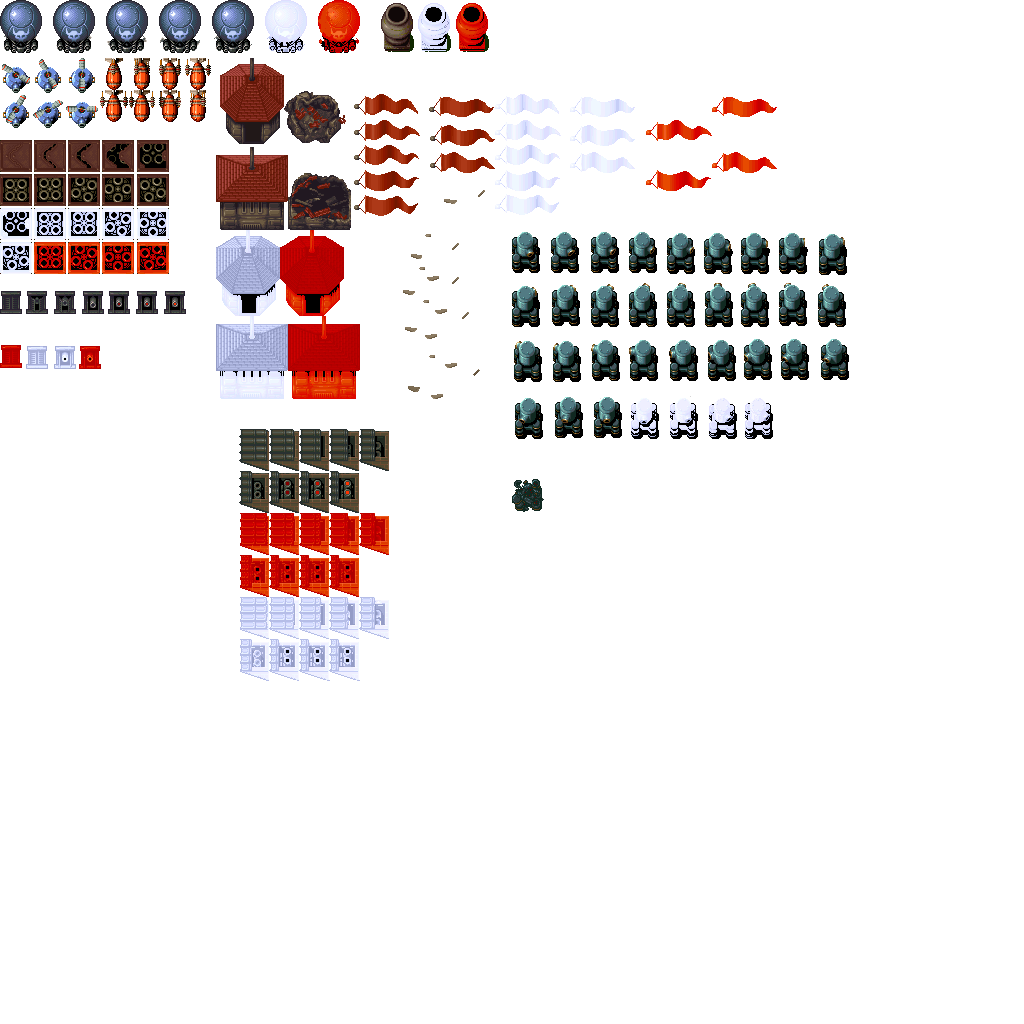
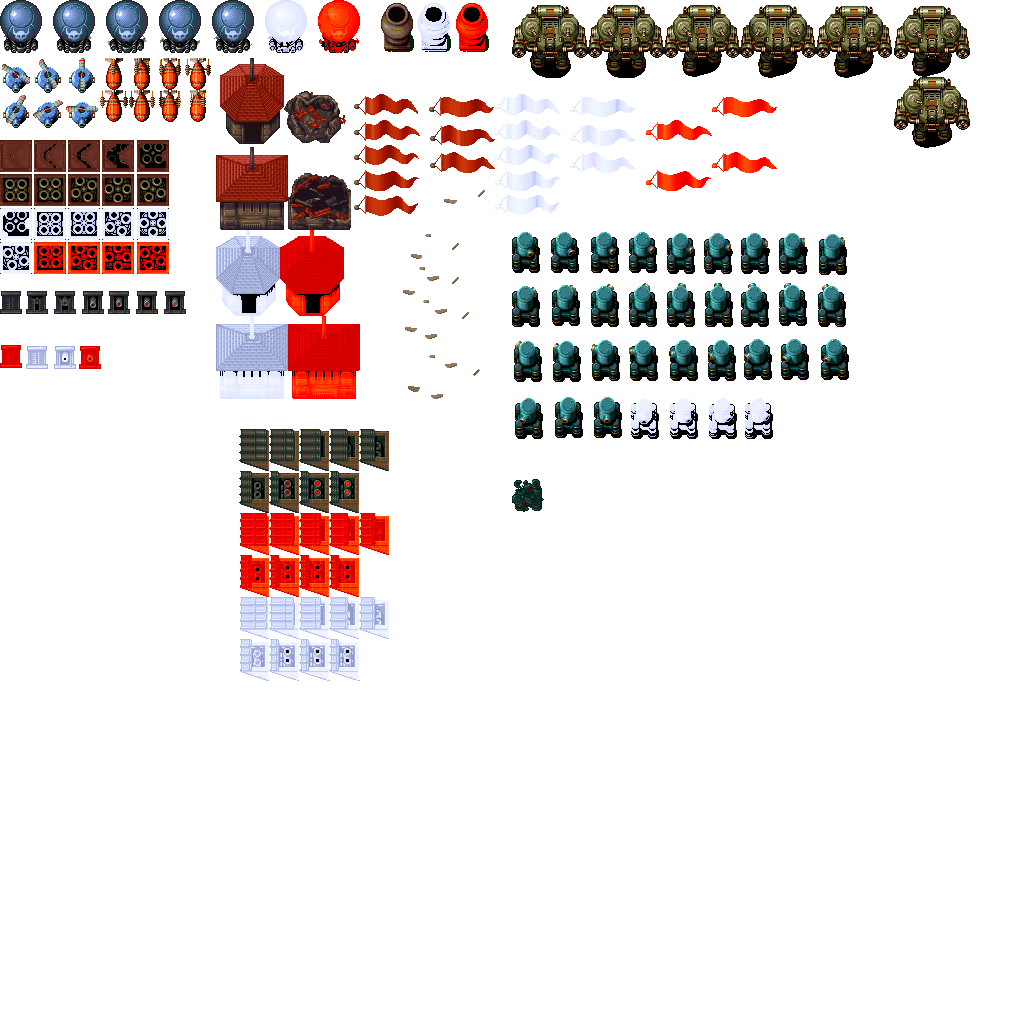
Green robot and bomb in progress

diff --git a/gunbird/ModuleCollision.cpp b/gunbird/ModuleCollision.cpp
@@ -20,6 +20,8 @@ ModuleCollision::ModuleCollision()
 	matrix[COLLIDER_WALL][COLLIDER_ENEMY_SHOT] = true;
 	matrix[COLLIDER_WALL][COLLIDER_POWERUP] = false;
 	matrix[COLLIDER_WALL][COLLIDER_COIN] = false;
+	matrix[COLLIDER_WALL][COLLIDER_BOMBSHOT] = true;
+	matrix[COLLIDER_WALL][COLLIDER_BOMBCLEAN] = false;
 
 	matrix[COLLIDER_PLAYER][COLLIDER_WALL] = true;
 	matrix[COLLIDER_PLAYER][COLLIDER_PLAYER] = false;
@@ -31,6 +33,8 @@ ModuleCollision::ModuleCollision()
 	matrix[COLLIDER_PLAYER][COLLIDER_ENEMY_SHOT] = true;
 	matrix[COLLIDER_PLAYER][COLLIDER_POWERUP] = true;
 	matrix[COLLIDER_PLAYER][COLLIDER_COIN] = true;
+	matrix[COLLIDER_PLAYER][COLLIDER_BOMBSHOT] = false;
+	matrix[COLLIDER_PLAYER][COLLIDER_BOMBCLEAN] = false;
 
 	matrix[COLLIDER_PLAYER2][COLLIDER_WALL] = true;
 	matrix[COLLIDER_PLAYER2][COLLIDER_PLAYER] = false;
@@ -42,6 +46,8 @@ ModuleCollision::ModuleCollision()
 	matrix[COLLIDER_PLAYER2][COLLIDER_ENEMY_SHOT] = true;
 	matrix[COLLIDER_PLAYER2][COLLIDER_POWERUP] = true;
 	matrix[COLLIDER_PLAYER2][COLLIDER_COIN] = true;
+	matrix[COLLIDER_PLAYER2][COLLIDER_BOMBSHOT] = false;
+	matrix[COLLIDER_PLAYER2][COLLIDER_BOMBCLEAN] = false;
 
 	matrix[COLLIDER_PLAYER_SHOT][COLLIDER_WALL] = true;
 	matrix[COLLIDER_PLAYER_SHOT][COLLIDER_PLAYER] = false;
@@ -53,6 +59,8 @@ ModuleCollision::ModuleCollision()
 	matrix[COLLIDER_PLAYER_SHOT][COLLIDER_ENEMY_SHOT] = false;
 	matrix[COLLIDER_PLAYER_SHOT][COLLIDER_POWERUP] = false;
 	matrix[COLLIDER_PLAYER_SHOT][COLLIDER_COIN] = false;
+	matrix[COLLIDER_PLAYER_SHOT][COLLIDER_BOMBSHOT] = false;
+	matrix[COLLIDER_PLAYER_SHOT][COLLIDER_BOMBCLEAN] = false;
 
 	matrix[COLLIDER_ENEMY][COLLIDER_WALL] = false;
 	matrix[COLLIDER_ENEMY][COLLIDER_PLAYER] = false;
@@ -64,6 +72,8 @@ ModuleCollision::ModuleCollision()
 	matrix[COLLIDER_ENEMY][COLLIDER_ENEMY_SHOT] = false;
 	matrix[COLLIDER_ENEMY][COLLIDER_POWERUP] = false;
 	matrix[COLLIDER_ENEMY][COLLIDER_COIN] = false;
+	matrix[COLLIDER_ENEMY][COLLIDER_BOMBSHOT] = true;
+	matrix[COLLIDER_ENEMY][COLLIDER_BOMBCLEAN] = false;
 
 	matrix[COLLIDER_ENEMY_F][COLLIDER_WALL] = false;
 	matrix[COLLIDER_ENEMY_F][COLLIDER_PLAYER] = true;
@@ -75,6 +85,8 @@ ModuleCollision::ModuleCollision()
 	matrix[COLLIDER_ENEMY_F][COLLIDER_ENEMY_SHOT] = false;
 	matrix[COLLIDER_ENEMY_F][COLLIDER_POWERUP] = false;
 	matrix[COLLIDER_ENEMY_F][COLLIDER_COIN] = false;
+	matrix[COLLIDER_ENEMY_F][COLLIDER_BOMBSHOT] = true;
+	matrix[COLLIDER_ENEMY_F][COLLIDER_BOMBCLEAN] = false;
 
 	matrix[COLLIDER_ENEMY_SHOT][COLLIDER_WALL] = true;
 	matrix[COLLIDER_ENEMY_SHOT][COLLIDER_PLAYER] = true;
@@ -86,6 +98,8 @@ ModuleCollision::ModuleCollision()
 	matrix[COLLIDER_ENEMY_SHOT][COLLIDER_ENEMY_SHOT] = false;
 	matrix[COLLIDER_ENEMY_SHOT][COLLIDER_POWERUP] = false;
 	matrix[COLLIDER_ENEMY_SHOT][COLLIDER_COIN] = false;
+	matrix[COLLIDER_ENEMY_SHOT][COLLIDER_BOMBSHOT] = false;
+	matrix[COLLIDER_ENEMY_SHOT][COLLIDER_BOMBCLEAN] = true;
 
 	matrix[COLLIDER_POWERUP][COLLIDER_WALL] = false;
 	matrix[COLLIDER_POWERUP][COLLIDER_PLAYER] = true;
@@ -97,6 +111,8 @@ ModuleCollision::ModuleCollision()
 	matrix[COLLIDER_POWERUP][COLLIDER_ENEMY_SHOT] = false;
 	matrix[COLLIDER_POWERUP][COLLIDER_POWERUP] = false;
 	matrix[COLLIDER_POWERUP][COLLIDER_COIN] = false;
+	matrix[COLLIDER_POWERUP][COLLIDER_BOMBSHOT] = false;
+	matrix[COLLIDER_POWERUP][COLLIDER_BOMBCLEAN] = false;
 
 	matrix[COLLIDER_COIN][COLLIDER_WALL] = false;
 	matrix[COLLIDER_COIN][COLLIDER_PLAYER] = true;
@@ -108,6 +124,8 @@ ModuleCollision::ModuleCollision()
 	matrix[COLLIDER_COIN][COLLIDER_ENEMY_SHOT] = false;
 	matrix[COLLIDER_COIN][COLLIDER_POWERUP] = false;
 	matrix[COLLIDER_COIN][COLLIDER_COIN] = false;
+	matrix[COLLIDER_COIN][COLLIDER_BOMBSHOT] = false;
+	matrix[COLLIDER_COIN][COLLIDER_BOMBCLEAN] = false;
 
 	matrix[COLLIDER_PLAYER2_SHOT][COLLIDER_WALL] = true;
 	matrix[COLLIDER_PLAYER2_SHOT][COLLIDER_PLAYER] = false;
@@ -119,6 +137,34 @@ ModuleCollision::ModuleCollision()
 	matrix[COLLIDER_PLAYER2_SHOT][COLLIDER_ENEMY_SHOT] = false;
 	matrix[COLLIDER_PLAYER2_SHOT][COLLIDER_POWERUP] = false;
 	matrix[COLLIDER_PLAYER2_SHOT][COLLIDER_COIN] = false;
+	matrix[COLLIDER_PLAYER2_SHOT][COLLIDER_BOMBSHOT] = false;
+	matrix[COLLIDER_PLAYER2_SHOT][COLLIDER_BOMBCLEAN] = false;
+
+	matrix[COLLIDER_BOMBSHOT][COLLIDER_WALL] = false;
+	matrix[COLLIDER_BOMBSHOT][COLLIDER_PLAYER] = false;
+	matrix[COLLIDER_BOMBSHOT][COLLIDER_PLAYER] = false;
+	matrix[COLLIDER_BOMBSHOT][COLLIDER_ENEMY] = true;
+	matrix[COLLIDER_BOMBSHOT][COLLIDER_ENEMY_F] = true;
+	matrix[COLLIDER_BOMBSHOT][COLLIDER_PLAYER_SHOT] = false;
+	matrix[COLLIDER_BOMBSHOT][COLLIDER_PLAYER2_SHOT] = false;
+	matrix[COLLIDER_BOMBSHOT][COLLIDER_ENEMY_SHOT] = false;
+	matrix[COLLIDER_BOMBSHOT][COLLIDER_POWERUP] = false;
+	matrix[COLLIDER_BOMBSHOT][COLLIDER_COIN] = false;
+	matrix[COLLIDER_BOMBSHOT][COLLIDER_BOMBSHOT] = false;
+	matrix[COLLIDER_BOMBSHOT][COLLIDER_BOMBCLEAN] = false;
+
+	matrix[COLLIDER_BOMBCLEAN][COLLIDER_WALL] = false;
+	matrix[COLLIDER_BOMBCLEAN][COLLIDER_PLAYER] = false;
+	matrix[COLLIDER_BOMBCLEAN][COLLIDER_PLAYER] = false;
+	matrix[COLLIDER_BOMBCLEAN][COLLIDER_ENEMY] = false;
+	matrix[COLLIDER_BOMBCLEAN][COLLIDER_ENEMY_F] = false;
+	matrix[COLLIDER_BOMBCLEAN][COLLIDER_PLAYER_SHOT] = false;
+	matrix[COLLIDER_BOMBCLEAN][COLLIDER_PLAYER2_SHOT] = false;
+	matrix[COLLIDER_BOMBCLEAN][COLLIDER_ENEMY_SHOT] = true;
+	matrix[COLLIDER_BOMBCLEAN][COLLIDER_POWERUP] = false;
+	matrix[COLLIDER_BOMBCLEAN][COLLIDER_COIN] = false;
+	matrix[COLLIDER_BOMBCLEAN][COLLIDER_BOMBSHOT] = false;
+	matrix[COLLIDER_BOMBCLEAN][COLLIDER_BOMBCLEAN] = false;
 }
 
 // Destructor
@@ -228,6 +274,12 @@ void ModuleCollision::DebugDraw()
 			break;
 		case COLLIDER_COIN: // golden
 			App->render->DrawQuad(colliders[i]->rect, 151, 120, 11, alpha);
+			break;
+		case COLLIDER_BOMBSHOT: // dark yellow
+			App->render->DrawQuad(colliders[i]->rect, 200, 200, 0, alpha);
+			break;
+		case COLLIDER_BOMBCLEAN: // black
+			App->render->DrawQuad(colliders[i]->rect, 0, 0, 0, alpha);
 			break;
 		}
 	}

diff --git a/gunbird/ModulePlayer.cpp b/gunbird/ModulePlayer.cpp
@@ -147,7 +147,7 @@ update_status ModulePlayer::Update()
 
 	int speed = 2;
 
-
+	// Controller input variables
 	if (App->input->controller1.left_joystick.x > 0.25)
 	{
 		joystick_right = true;
@@ -176,7 +176,9 @@ update_status ModulePlayer::Update()
 	}
 	else
 		joystick_up = false;
+	// --------------------------
 
+	// Move left
 	if ((App->input->keyboard[SDL_SCANCODE_A] == KEY_STATE::KEY_REPEAT || joystick_left) && !_dying && !respawning && !App->fade->fading)
 	{
 		position.x -= speed;
@@ -198,7 +200,9 @@ update_status ModulePlayer::Update()
 			transition++;
 		}
 	}
+	// --------------------------
 
+	// Move right
 	if ((App->input->keyboard[SDL_SCANCODE_D] == KEY_STATE::KEY_REPEAT ||  joystick_right) && !_dying && !respawning && !App->fade->fading)
 	{
 		position.x += speed;
@@ -221,7 +225,9 @@ update_status ModulePlayer::Update()
 			transition++;
 		}
 	}
+	// --------------------------
 
+	// Move down
 	if ((App->input->keyboard[SDL_SCANCODE_S] == KEY_STATE::KEY_REPEAT || joystick_down) && !_dying && !respawning && !App->fade->fading)
 	{
 		position.y += speed;
@@ -231,7 +237,9 @@ update_status ModulePlayer::Update()
 		}
 	
 	}
+	// --------------------------
 
+	// Move up
 	if ((App->input->keyboard[SDL_SCANCODE_W] == KEY_STATE::KEY_REPEAT || joystick_up) && !_dying && !respawning && !App->fade->fading)
 	{
 		position.y -= speed;
@@ -241,8 +249,9 @@ update_status ModulePlayer::Update()
 		}
 	
 	}
+	// --------------------------
 
-
+	// Shoot
 	if ((App->input->keyboard[SDL_SCANCODE_C] == KEY_STATE::KEY_DOWN || App->input->controller1.c_button == KEY_STATE::KEY_DOWN) && !_dying && !respawning && !stunned && !App->fade->fading)
 	{
 		if (!shooting)
@@ -255,14 +264,18 @@ update_status ModulePlayer::Update()
 
 		shooting = true;
 	}
+	// --------------------------
 
-	//Adding all 4 particles
+	// Bomb
+//	if ((App->input->keyboard[SDL_SCANCODE_V] == KEY_STATE::KEY_DOWN || App->input->controller1.))
+
+	// Adding all 4 particles
 	if (shot <= SDL_GetTicks() && shooting)
 		shootburst(powerup_lv);
-		
+	// --------------------------
 
 
-
+	// Returning to idle if no side movement input is detected
 	if (App->input->keyboard[SDL_SCANCODE_D] == KEY_STATE::KEY_IDLE
 		&& App->input->keyboard[SDL_SCANCODE_A] == KEY_STATE::KEY_IDLE)
 	{
@@ -272,7 +285,9 @@ update_status ModulePlayer::Update()
 			transition = 0;
 		}
 	}
+	// --------------------------
 
+	// Debug functionality
 	if ((App->input->keyboard[SDL_SCANCODE_F2] == KEY_STATE::KEY_DOWN || App->input->controller1.f2_button) && godmode == false && !App->fade->fading)
 	{
 		godmode = true;
@@ -304,9 +319,13 @@ update_status ModulePlayer::Update()
 		App->player2->Enable();
 		App->player2->out = false;
 	}
+	// --------------------------
 
+	// Update player's collider to current position
 	player_col->SetPos(position.x + 10, position.y + 9);
+	// --------------------------
 
+	// Stun, death and respawn
 	if (stunned)
 	{
 		
@@ -382,6 +401,7 @@ update_status ModulePlayer::Update()
 			invincibilitycounter = 0;
 		}
 	}
+	// --------------------------
 
 	//Leave particles behind (yay! magic sparks)
 	magicsparks++;
@@ -405,31 +425,36 @@ update_status ModulePlayer::Update()
 		App->particles->AddParticle(App->particles->magicspark[3], position.x + 8, position.y + 31, COLLIDER_NONE);
 		magicsparks = 0;
 	}
+	// --------------------------
 
 	//Return to intro scene if both players are out
 	if (out && App->player2->out)
 	{
 		App->fade->FadeToBlack(App->scene_castle, App->scene_intro, 2.0f);
 	}
+	// --------------------------
 
 
-
+	// Blit score
 	sprintf_s(text_score, 10, "%7d", score);
+	// --------------------------
 	
+
+	// Blit player
 	blink++;
 	if (blink == 6)
-	blink = 0;
+		blink = 0;
 
 	blinkcounter++;
 	if (blinkcounter == 6)
 		blinkcounter = 0;
 
-	// Draw everything --------------------------------------
 	if (blinkcounter > 3 && (respawning || temp_invincibility))
 		App->render->Blit(graphics, position.x, position.y, &(current_animation->GetCurrentFrame()));
 
 	else if (!respawning && !temp_invincibility)
 		App->render->Blit(graphics, position.x, position.y, &(current_animation->GetCurrentFrame()));
+	// --------------------------
 
 	//Blit UI
 	App->render->Blit(ui, 5, 6, &p1display, 0, true);
@@ -449,6 +474,7 @@ update_status ModulePlayer::Update()
 	{
 		App->render->Blit(ui2, 117, 6, &(startbutton.GetCurrentFrame()), 0, true);
 	}
+	// --------------------------
 
 	return UPDATE_CONTINUE;
 }

diff --git a/gunbird/Enemy_GreenRobot.cpp b/gunbird/Enemy_GreenRobot.cpp
@@ -1,0 +1,34 @@
+//#include "Application.h"
+//#include "ModuleParticles.h"
+//#include "Enemy_GreenRobot.h"
+//#include "ModulePlayer.h"
+//#include "ModuleCollision.h"
+//#include "SDL/include/SDL_timer.h"
+//#include <cmath>
+//
+//
+//
+//Enemy_GreenRobot::Enemy_GreenRobot(int x, int y, int option) : Enemy(x, y, option)
+//{
+//
+//
+//	path.PushBack({ -0.1f, -0.7f }, 100);
+//	path.PushBack({ -0.1f, 0.7f }, 200);
+//	path.PushBack({ -0.1f, 1.2f }, 200);
+//
+//	collider = App->collision->AddCollider({ 0, 0, 32, 35 }, COLLIDER_TYPE::COLLIDER_ENEMY_F, (Module*)App->enemies);
+//
+//	original_pos.x = x;
+//	original_pos.y = y;
+//
+//	hp = 87.0f;
+//
+//	death_type = MEDIUM_ENEMY;
+//	flying = false;
+//	killscore = 4000;
+//}
+//
+//void Enemy_GreenRobot::Move()
+//{
+//
+//}

diff --git a/gunbird/Enemy_GreenRobot.h b/gunbird/Enemy_GreenRobot.h
@@ -1,0 +1,22 @@
+//#ifndef __ENEMY_GREENROBOT_H__
+//#define __ENEMY_GREENROBOT_H__
+//
+//#include "Enemy.h"
+//#include "Path.h"
+//
+//class Enemy_GreenRobot : public Enemy
+//{
+//private:
+//	iPoint original_pos;
+//	fPoint distance;
+//	Animation stand;
+//	Animation walk_backward;
+//	Path path;
+//public:
+//	Enemy_GreenRobot(int x, int y, int option);
+//	void Move();
+//	int initcounter = 0;
+//	float aux_float;
+//	fPoint speeds;
+//};
+//#endif

diff --git a/gunbird/ModuleCollision.h b/gunbird/ModuleCollision.h
@@ -18,6 +18,8 @@ enum COLLIDER_TYPE
 	COLLIDER_ENEMY_SHOT,
 	COLLIDER_POWERUP,
 	COLLIDER_COIN,
+	COLLIDER_BOMBSHOT,
+	COLLIDER_BOMBCLEAN,
 	COLLIDER_MAX
 };
 
